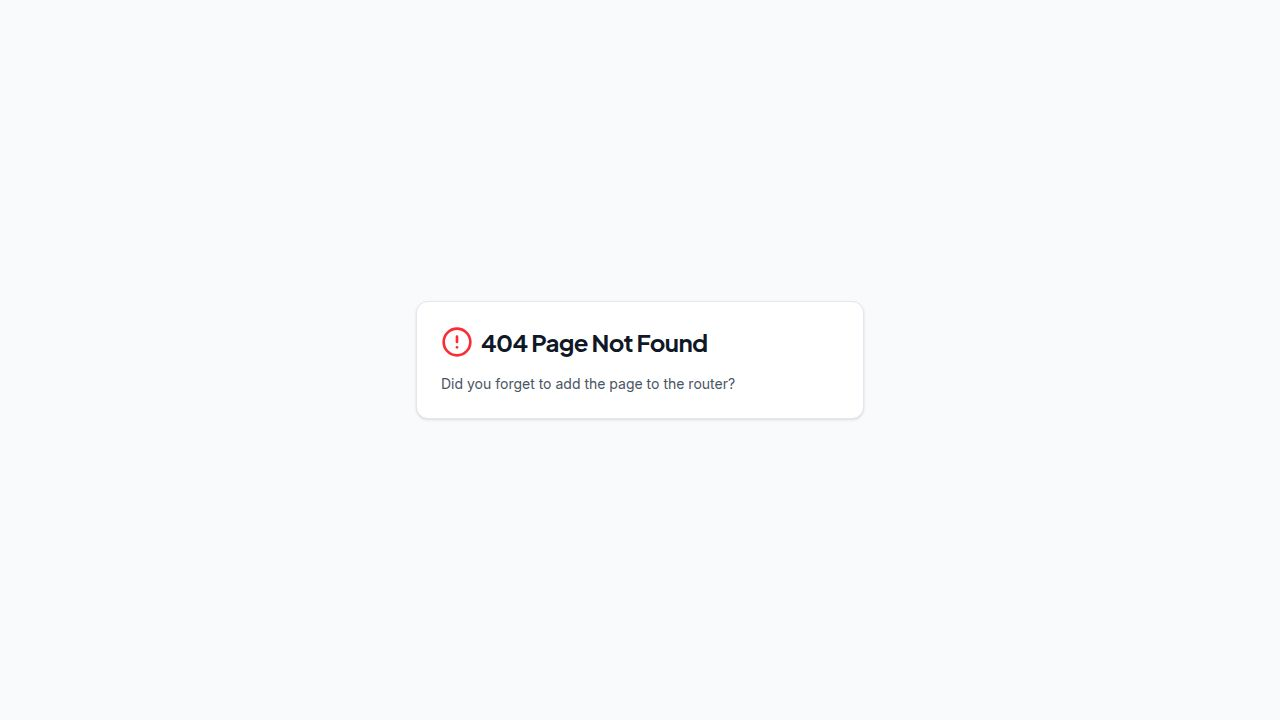
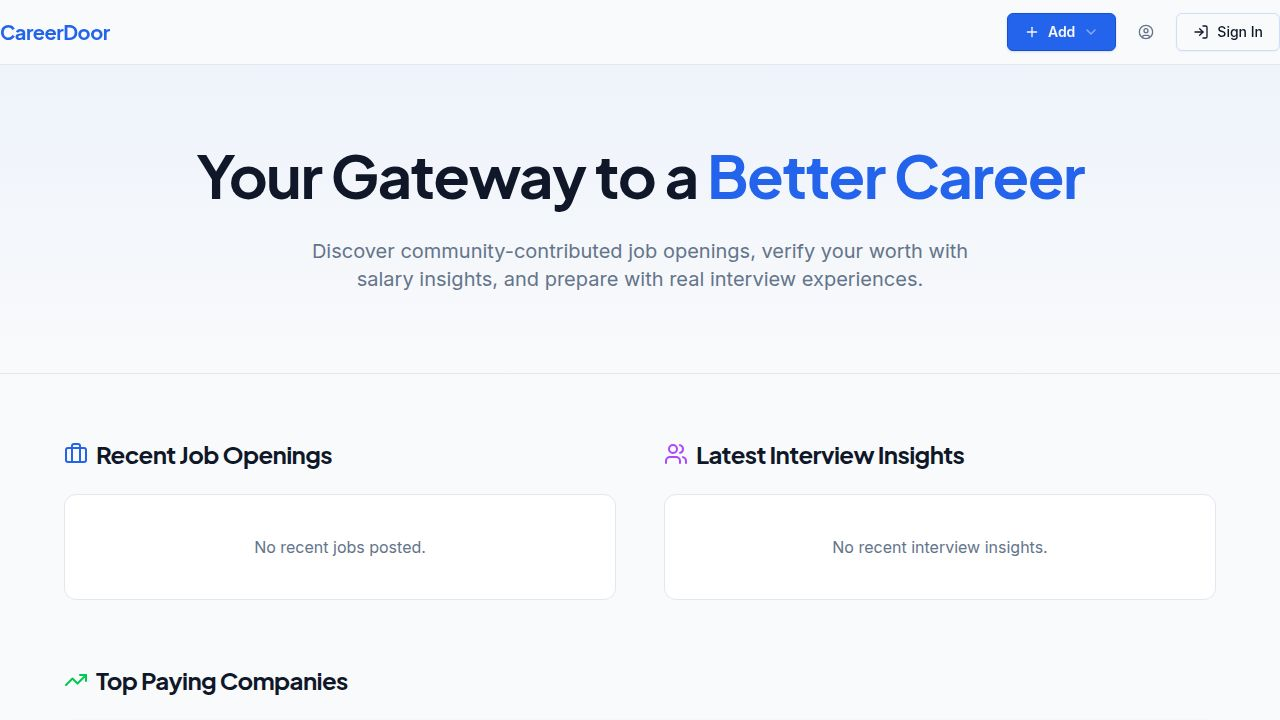
Streamline homepage content and navigation links
Remove popular section, search bar, and secondary navigation links from the homepage and navbar, simplifying the interface to show only latest and top content.

Replit-Commit-Author: Agent
Replit-Commit-Session-Id: ba1007ab-3f78-4d11-87f0-435fd33eecf6
Replit-Commit-Checkpoint-Type: full_checkpoint
Replit-Commit-Event-Id: 0b3da5ef-d6c5-4ade-8eeb-6650581e438c
Replit-Commit-Screenshot-Url: https://storage.googleapis.com/screenshot-production-us-central1/fd73be50-4096-4041-83b2-8c13fd77961e/ba1007ab-3f78-4d11-87f0-435fd33eecf6/Y8WMgwp
Replit-Helium-Checkpoint-Created: true

diff --git a/client/src/pages/home.tsx b/client/src/pages/home.tsx
@@ -1,134 +1,181 @@
 import Navbar from "@/components/layout/Navbar";
 import { Button } from "@/components/ui/button";
-import { Input } from "@/components/ui/input";
-import { Card, CardContent, CardDescription, CardHeader, CardTitle } from "@/components/ui/card";
-import { Search, MapPin, Building2, Star, TrendingUp, Users, Briefcase } from "lucide-react";
-import { Link } from "wouter";
+import { Card, CardContent, CardHeader, CardTitle, CardDescription } from "@/components/ui/card";
+import { Badge } from "@/components/ui/badge";
+import { Building2, MapPin, Briefcase, Clock, Handshake, AlertCircle, MessageSquare, TrendingUp, Users } from "lucide-react";
+import { useStore } from "@/lib/store";
+import { useMemo } from "react";
 
 export default function Home() {
+  const { jobs, salaries, interviews } = useStore();
+
+  const recentJobs = [...jobs].reverse().slice(0, 5);
+  const recentInterviews = [...interviews].reverse().slice(0, 5);
+
+  const topPayingCompanies = useMemo(() => {
+    const companyAverages: Record<string, { total: number, count: number }> = {};
+    salaries.forEach(s => {
+      if (!companyAverages[s.company]) {
+        companyAverages[s.company] = { total: 0, count: 0 };
+      }
+      companyAverages[s.company].total += (s.base + s.bonus + s.stock);
+      companyAverages[s.company].count += 1;
+    });
+
+    return Object.entries(companyAverages)
+      .map(([name, data]) => ({
+        name,
+        pay: `$${Math.round(data.total / data.count / 1000)}k`
+      }))
+      .sort((a, b) => {
+        const valA = parseInt(a.pay.replace(/[^0-9]/g, ''));
+        const valB = parseInt(b.pay.replace(/[^0-9]/g, ''));
+        return valB - valA;
+      })
+      .slice(0, 5);
+  }, [salaries]);
+
   return (
     <div className="min-h-screen bg-background">
       <Navbar />
       
-      {/* Hero Section */}
+      {/* Minimal Hero Section */}
       <section className="py-20 px-4 md:px-6 lg:px-8 bg-gradient-to-b from-primary/5 to-background border-b">
         <div className="container mx-auto max-w-5xl text-center space-y-8">
           <h1 className="text-4xl md:text-5xl lg:text-6xl font-bold tracking-tight text-foreground">
             Your Gateway to a <span className="text-primary">Better Career</span>
           </h1>
           <p className="text-lg md:text-xl text-muted-foreground max-w-2xl mx-auto">
-            Discover company reviews, salary insights, interview questions, and referral opportunities to land your dream job.
+            Discover community-contributed job openings, verify your worth with salary insights, and prepare with real interview experiences.
           </p>
-          
-          <div className="bg-card p-2 rounded-xl shadow-lg border max-w-3xl mx-auto flex flex-col md:flex-row gap-2">
-            <div className="relative flex-1 flex items-center">
-              <Search className="absolute left-3 text-muted-foreground h-5 w-5" />
-              <Input placeholder="Job title, keywords, or company" className="pl-10 border-0 shadow-none focus-visible:ring-0 text-base h-12" />
-            </div>
-            <div className="w-px h-8 bg-border hidden md:block self-center"></div>
-            <div className="relative flex-1 flex items-center">
-              <MapPin className="absolute left-3 text-muted-foreground h-5 w-5" />
-              <Input placeholder="Location" className="pl-10 border-0 shadow-none focus-visible:ring-0 text-base h-12" />
-            </div>
-            <Button size="lg" className="h-12 px-8 text-base">Search Jobs</Button>
-          </div>
-
-          <div className="flex flex-wrap justify-center gap-2 pt-4">
-            <span className="text-sm text-muted-foreground self-center mr-2">Popular:</span>
-            {["Software Engineer", "Data Scientist", "Product Manager", "Remote", "Google"].map(tag => (
-              <Badge variant="secondary" key={tag} className="cursor-pointer hover:bg-secondary/80 text-sm font-medium px-3 py-1">{tag}</Badge>
-            ))}
-          </div>
         </div>
       </section>
 
-      {/* Main Services Grid */}
+      {/* Main Content Grid (Recent & Top Only) */}
       <section className="py-16 px-4 md:px-6 lg:px-8">
-        <div className="container mx-auto max-w-6xl">
-          <div className="grid grid-cols-1 md:grid-cols-2 lg:grid-cols-3 gap-6">
-            
-            <ServiceCard 
-              icon={<Building2 className="h-8 w-8 text-blue-500" />}
-              title="Company Reviews"
-              description="Real reviews from employees about culture, work-life balance, and benefits."
-              link="/companies"
-              linkText="Read Reviews"
-            />
-            
-            <ServiceCard 
-              icon={<TrendingUp className="h-8 w-8 text-green-500" />}
-              title="Salary Insights"
-              description="Compare salaries across roles and companies to ensure you're paid fairly."
-              link="/salaries"
-              linkText="Explore Salaries"
-            />
-            
-            <ServiceCard 
-              icon={<Users className="h-8 w-8 text-purple-500" />}
-              title="Interview Insights"
-              description="Past interview questions, processes, and tips from candidates."
-              link="/interviews"
-              linkText="Prep for Interviews"
-            />
-            
-            <ServiceCard 
-              icon={<Briefcase className="h-8 w-8 text-orange-500" />}
-              title="Jobs & Walk-ins"
-              description="Find the latest job postings and upcoming walk-in drives."
-              link="/jobs"
-              linkText="Browse Jobs"
-            />
-            
-            <ServiceCard 
-              icon={<Star className="h-8 w-8 text-yellow-500" />}
-              title="Referrals"
-              description="Connect with employees who can refer you to top companies."
-              link="/jobs?tab=referrals"
-              linkText="Get Referred"
-            />
+        <div className="container mx-auto max-w-6xl space-y-16">
+          
+          <div className="grid grid-cols-1 lg:grid-cols-2 gap-12">
+            {/* Recent Jobs */}
+            <div>
+              <div className="flex items-center justify-between mb-6">
+                <h2 className="text-2xl font-bold flex items-center gap-2">
+                  <Briefcase className="h-6 w-6 text-primary" />
+                  Recent Job Openings
+                </h2>
+              </div>
+              <div className="space-y-4">
+                {recentJobs.length > 0 ? (
+                  recentJobs.map(job => (
+                    <Card key={job.id} className="hover:shadow-md transition-all border-border/60">
+                      <CardContent className="p-6">
+                        <div className="flex flex-col gap-3">
+                          <div className="flex items-center justify-between gap-2">
+                            <h3 className="text-lg font-semibold">{job.title}</h3>
+                            <div className="flex gap-2">
+                              {job.isWalkin && <Badge variant="destructive" className="text-[10px]">Walk-in</Badge>}
+                              {job.hasReferral && <Badge variant="default" className="text-[10px]">Referral</Badge>}
+                            </div>
+                          </div>
+                          <div className="flex flex-wrap items-center gap-3 text-sm text-muted-foreground">
+                            <span className="flex items-center gap-1 font-medium text-foreground"><Building2 className="h-4 w-4" /> {job.company}</span>
+                            <span className="flex items-center gap-1"><MapPin className="h-4 w-4" /> {job.location}</span>
+                          </div>
+                          {job.description && (
+                            <p className="text-sm text-muted-foreground line-clamp-2 mt-1">{job.description}</p>
+                          )}
+                          <div className="pt-3 border-t flex justify-between items-center mt-2">
+                            <span className="text-xs text-muted-foreground flex items-center gap-1"><Clock className="h-3 w-3" /> {job.posted}</span>
+                            <Button size="sm" variant={job.hasReferral ? "outline" : "default"}>
+                              {job.hasReferral ? "Request Referral" : "Apply"}
+                            </Button>
+                          </div>
+                        </div>
+                      </CardContent>
+                    </Card>
+                  ))
+                ) : (
+                  <div className="text-center py-10 border rounded-xl bg-card text-muted-foreground">
+                    No recent jobs posted.
+                  </div>
+                )}
+              </div>
+            </div>
 
-            <ServiceCard 
-              icon={<MapPin className="h-8 w-8 text-red-500" />}
-              title="Career Track"
-              description="Manage your applications, saved jobs, and career preferences."
-              link="/auth"
-              linkText="Join Now"
-            />
-
+            {/* Recent Interviews */}
+            <div>
+              <div className="flex items-center justify-between mb-6">
+                <h2 className="text-2xl font-bold flex items-center gap-2">
+                  <Users className="h-6 w-6 text-purple-500" />
+                  Latest Interview Insights
+                </h2>
+              </div>
+              <div className="space-y-4">
+                {recentInterviews.length > 0 ? (
+                  recentInterviews.map(interview => (
+                    <Card key={interview.id} className="hover:shadow-md transition-all border-border/60">
+                      <CardContent className="p-6">
+                        <div className="flex flex-col gap-3">
+                          <div className="flex justify-between items-start">
+                            <div>
+                              <h3 className="text-lg font-semibold">{interview.role}</h3>
+                              <p className="text-sm font-medium text-foreground flex items-center gap-1 mt-1">
+                                <Building2 className="h-4 w-4" /> {interview.company} ({interview.level})
+                              </p>
+                            </div>
+                            <Badge variant={interview.difficulty === 'Hard' ? 'destructive' : 'secondary'}>{interview.difficulty}</Badge>
+                          </div>
+                          <div className="bg-muted/50 p-3 rounded-md border text-sm text-muted-foreground line-clamp-3">
+                            <span className="font-semibold text-foreground mr-1">Process:</span> 
+                            {interview.process}
+                          </div>
+                        </div>
+                      </CardContent>
+                    </Card>
+                  ))
+                ) : (
+                  <div className="text-center py-10 border rounded-xl bg-card text-muted-foreground">
+                    No recent interview insights.
+                  </div>
+                )}
+              </div>
+            </div>
           </div>
+
+          {/* Top Paying Companies */}
+          <div>
+            <div className="flex items-center justify-between mb-6">
+              <h2 className="text-2xl font-bold flex items-center gap-2">
+                <TrendingUp className="h-6 w-6 text-green-500" />
+                Top Paying Companies
+              </h2>
+            </div>
+            <Card className="border-border/60 shadow-sm bg-gradient-to-br from-primary/5 to-transparent">
+              <CardContent className="p-6">
+                <div className="grid grid-cols-1 md:grid-cols-2 lg:grid-cols-3 xl:grid-cols-5 gap-4">
+                  {topPayingCompanies.length > 0 ? (
+                    topPayingCompanies.map((co, i) => (
+                      <div key={co.name} className="flex flex-col p-4 rounded-xl bg-background border border-border/50 hover:border-primary/30 transition-colors text-center">
+                        <div className="flex items-center justify-center gap-2 mb-2">
+                          <span className="text-muted-foreground font-bold text-sm">#{i + 1}</span>
+                          <span className="font-semibold text-lg">{co.name}</span>
+                        </div>
+                        <span className="font-bold text-2xl text-green-600">{co.pay}</span>
+                        <span className="text-xs text-muted-foreground mt-1">Avg Total Comp</span>
+                      </div>
+                    ))
+                  ) : (
+                    <div className="col-span-full text-center py-6 text-muted-foreground">
+                      Contribute salary details to see top paying companies here.
+                    </div>
+                  )}
+                </div>
+              </CardContent>
+            </Card>
+          </div>
+
         </div>
       </section>
     </div>
   );
-}
-
-function ServiceCard({ icon, title, description, link, linkText }: any) {
-  return (
-    <Card className="hover:shadow-md transition-shadow group cursor-pointer border-border/60 hover:border-primary/20">
-      <CardHeader>
-        <div className="mb-4 p-3 bg-secondary w-fit rounded-lg group-hover:scale-110 transition-transform">
-          {icon}
-        </div>
-        <CardTitle className="text-xl">{title}</CardTitle>
-        <CardDescription className="text-base mt-2">{description}</CardDescription>
-      </CardHeader>
-      <CardContent>
-        <Link href={link}>
-          <Button variant="link" className="p-0 h-auto font-semibold text-primary hover:text-primary/80 flex items-center gap-1 group/btn">
-            {linkText}
-            <span className="group-hover/btn:translate-x-1 transition-transform">→</span>
-          </Button>
-        </Link>
-      </CardContent>
-    </Card>
-  );
-}
-
-// Simple Badge fallback since we didn't import it
-function Badge({ children, variant, className }: any) {
-  return (
-    <span className={`inline-flex items-center rounded-full px-2.5 py-0.5 text-xs font-semibold transition-colors focus:outline-none focus:ring-2 focus:ring-ring focus:ring-offset-2 bg-secondary text-secondary-foreground hover:bg-secondary/80 border-transparent ${className}`}>
-      {children}
-    </span>
-  )
 }

diff --git a/client/src/components/layout/Navbar.tsx b/client/src/components/layout/Navbar.tsx
@@ -12,14 +12,7 @@ import {
 } from "@/components/ui/dropdown-menu";
 
 export default function Navbar() {
-  const [location, setLocation] = useLocation();
-
-  const navLinks = [
-    { name: "Jobs", href: "/jobs", icon: Briefcase },
-    { name: "Companies", href: "/companies", icon: Building2 },
-    { name: "Salaries", href: "/salaries", icon: TrendingUp },
-    { name: "Interviews", href: "/interviews", icon: Users },
-  ];
+  const [, setLocation] = useLocation();
 
   return (
     <nav className="sticky top-0 z-50 w-full border-b bg-background/95 backdrop-blur supports-[backdrop-filter]:bg-background/60">
@@ -30,25 +23,6 @@ export default function Navbar() {
               CareerDoor
             </span>
           </Link>
-          
-          <div className="hidden md:flex gap-1">
-            {navLinks.map((link) => {
-              const Icon = link.icon;
-              const isActive = location.startsWith(link.href);
-              return (
-                <Link key={link.name} href={link.href}>
-                  <Button 
-                    variant={isActive ? "secondary" : "ghost"} 
-                    size="sm" 
-                    className={`gap-2 ${isActive ? 'font-semibold text-primary' : 'text-muted-foreground'}`}
-                  >
-                    <Icon className="h-4 w-4" />
-                    {link.name}
-                  </Button>
-                </Link>
-              );
-            })}
-          </div>
         </div>
 
         <div className="flex items-center gap-4">
@@ -106,17 +80,6 @@ export default function Navbar() {
                   <span className="font-display text-2xl font-bold text-primary">CareerDoor</span>
                 </Link>
                 <div className="flex flex-col gap-2">
-                  {navLinks.map((link) => {
-                    const Icon = link.icon;
-                    return (
-                      <Link key={link.name} href={link.href}>
-                        <Button variant="ghost" className="w-full justify-start gap-3 text-lg font-medium">
-                          <Icon className="h-5 w-5" />
-                          {link.name}
-                        </Button>
-                      </Link>
-                    );
-                  })}
                   <Link href="/profile">
                     <Button variant="ghost" className="w-full justify-start gap-3 text-lg font-medium">
                       <UserCircle className="h-5 w-5" />
